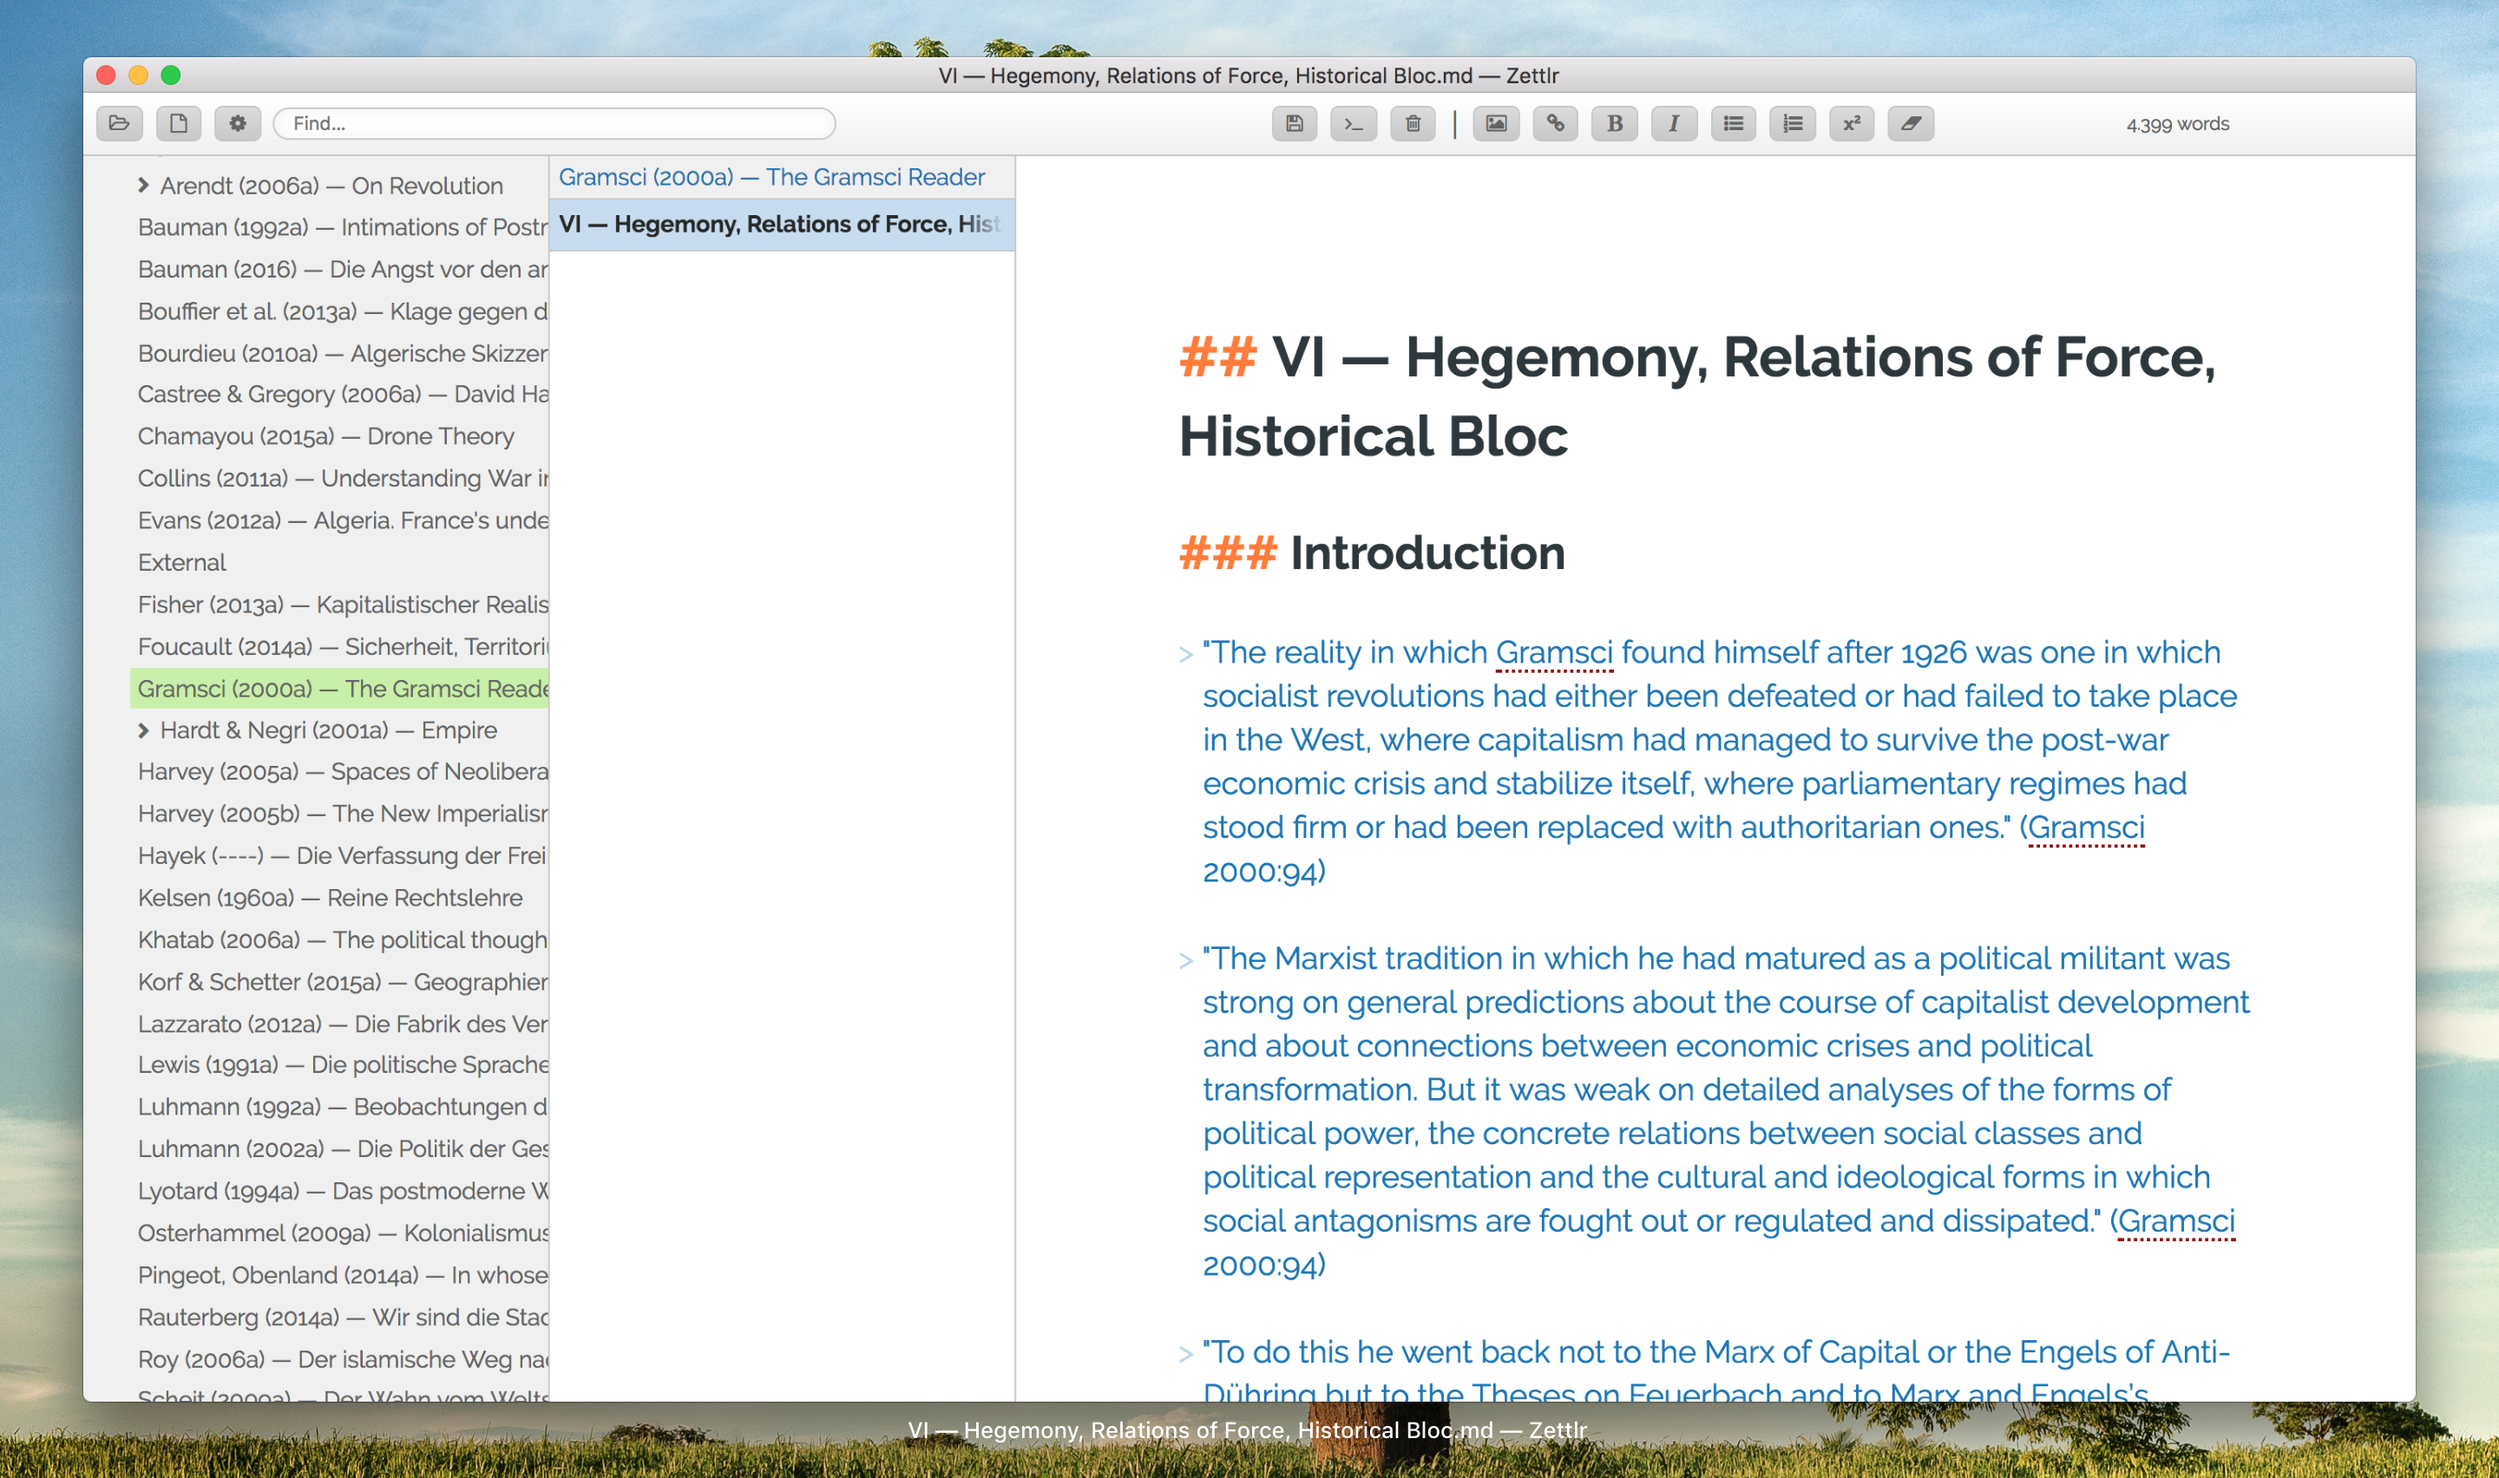
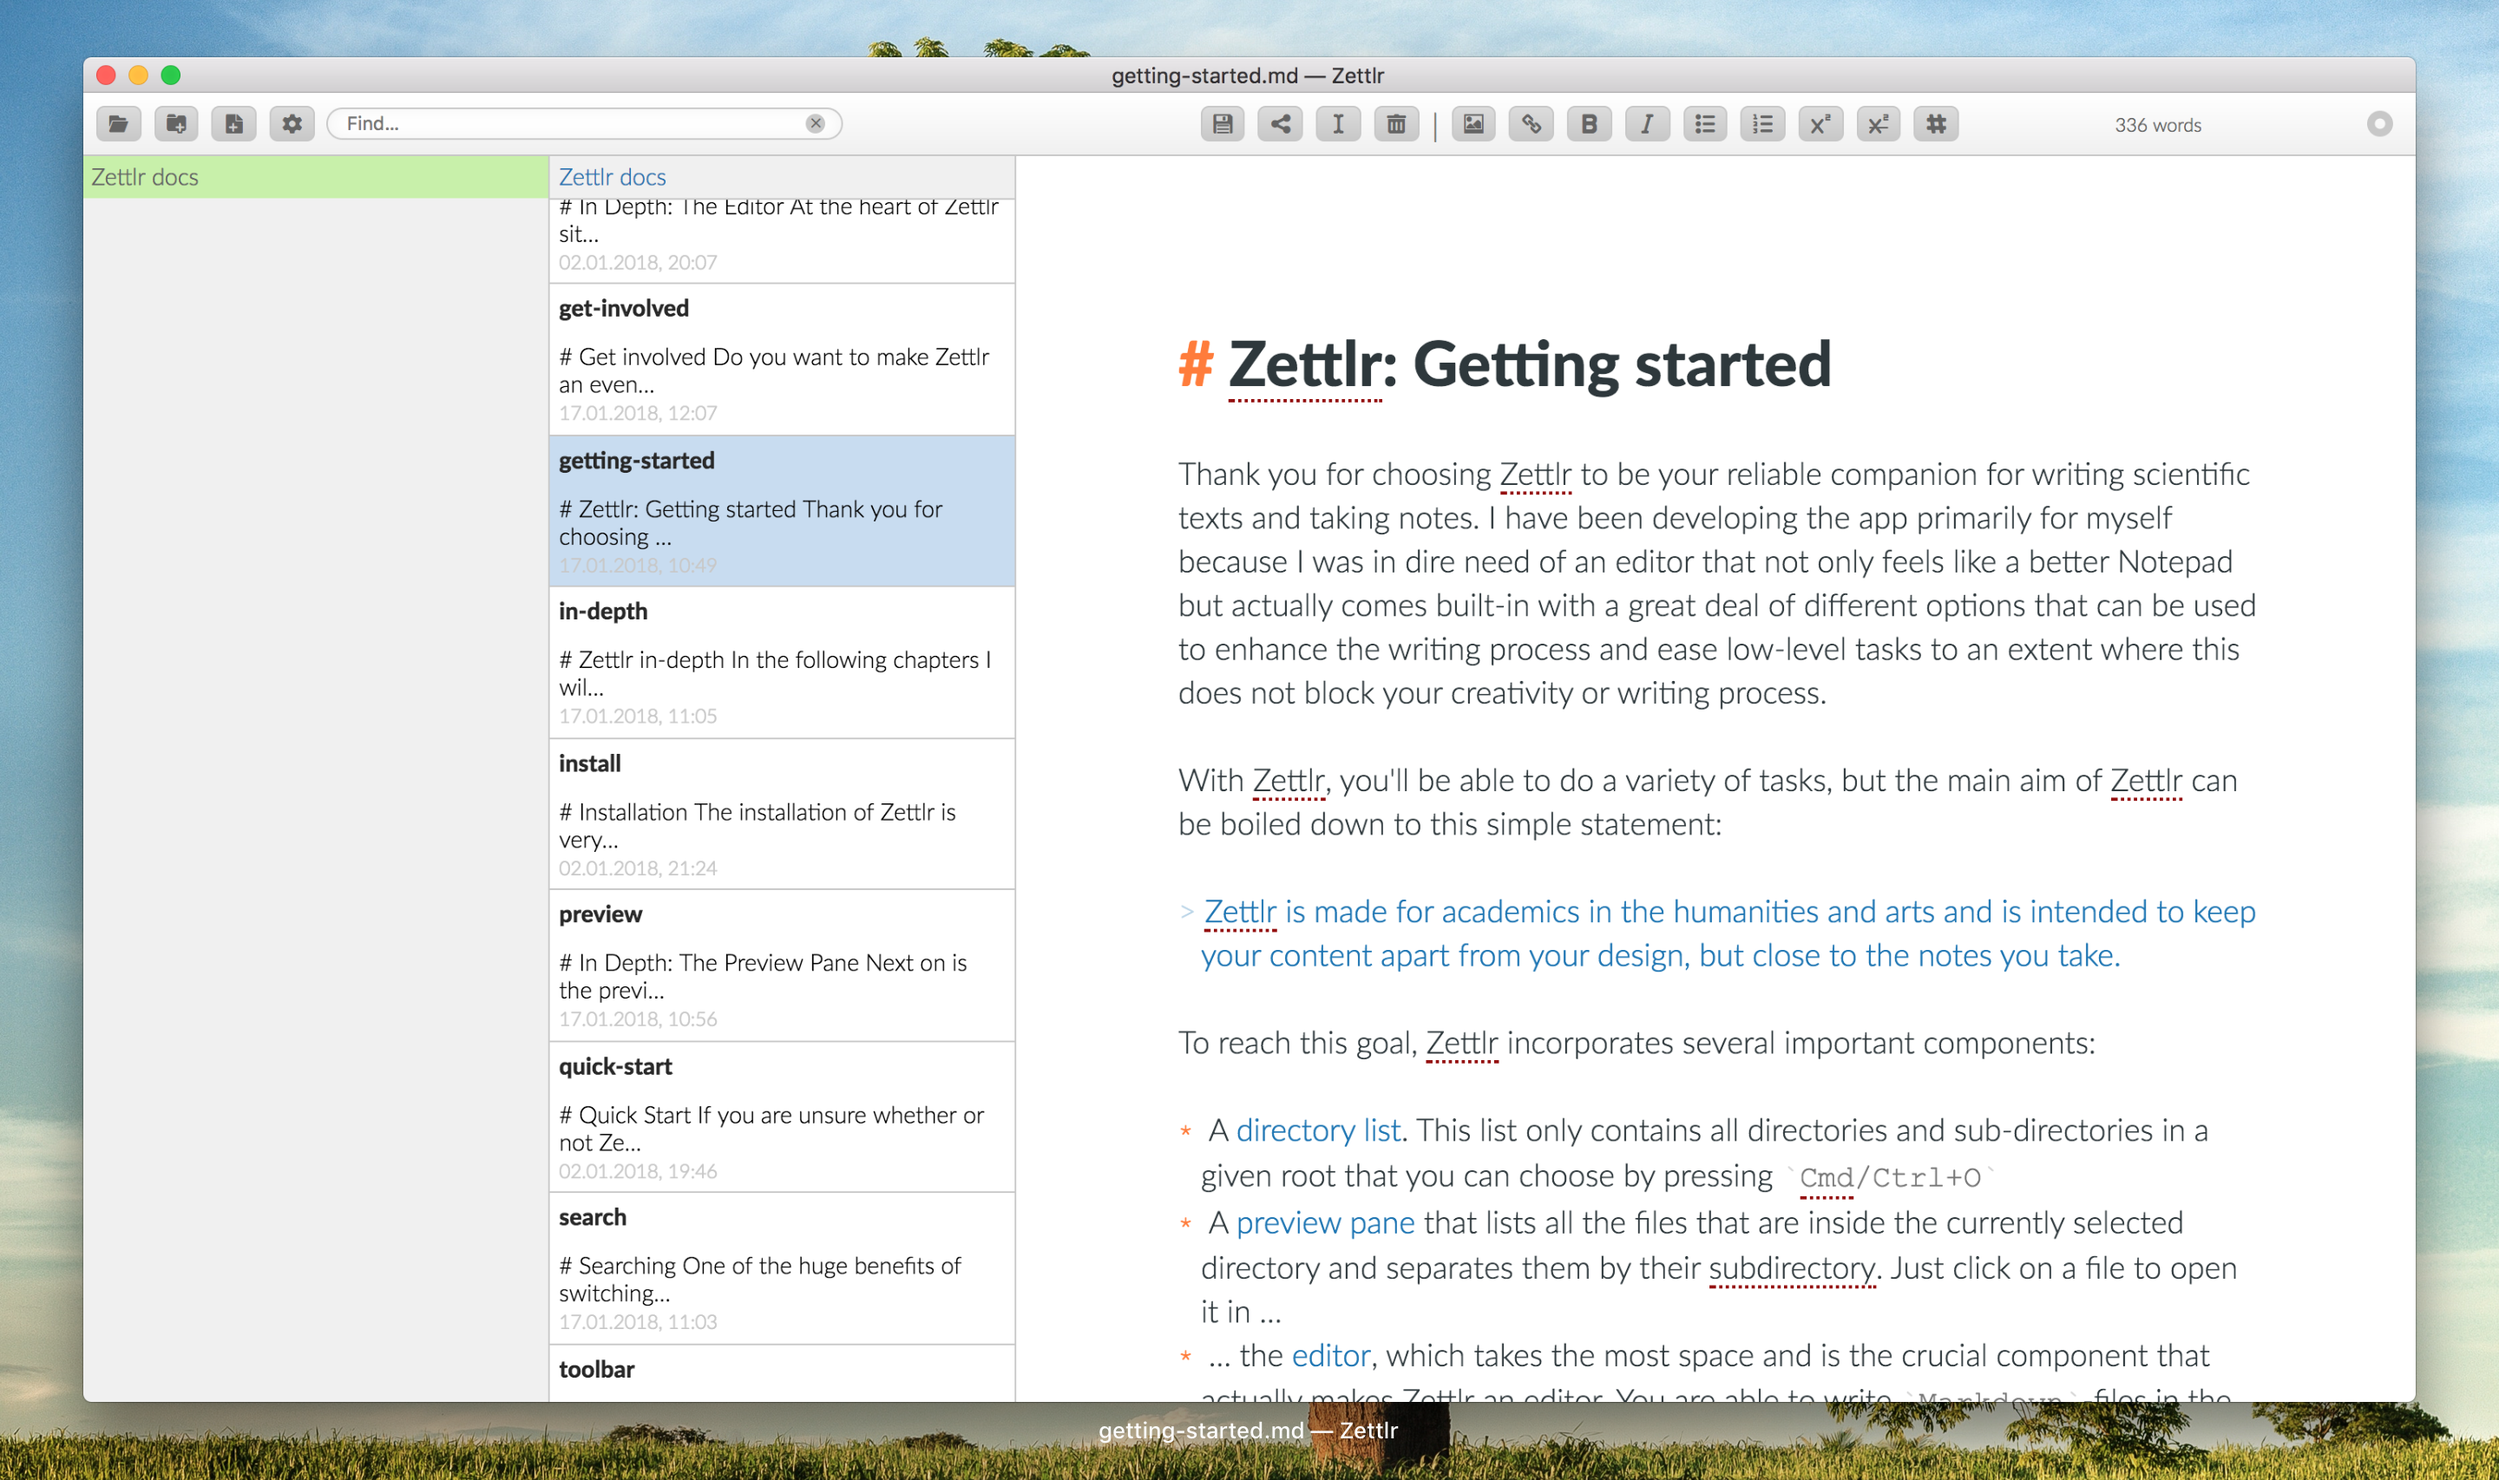
Updated README and screenshots

diff --git a/README.md b/README.md
@@ -31,6 +31,18 @@ To install Zettlr, just [download the latest release](https://github.com/Zettlr/
 
 If you have downloaded Zettlr, [head over to our website](https://zettlr.com/docs) to get to know Zettlr. Refer to the [Quick Start Guide](https://zettlr.com/docs/quick-start), if you prefer to use software heads-on.
 
+## Developing
+
+To start developing, simply `git clone` and `npm install` the app on your local computer:
+
+`$ git clone https://github.com/Zettlr/Zettlr.git`\
+`$ cd Zettlr`\
+`$ npm install`\
+`$ cd source`\
+`$ npm install`
+
+_(Please note the second `npm install` in the source directory. This is necessary if you want to build the app locally.)_
+
 ## License
 
 This software is licenced via the MIT-License.
